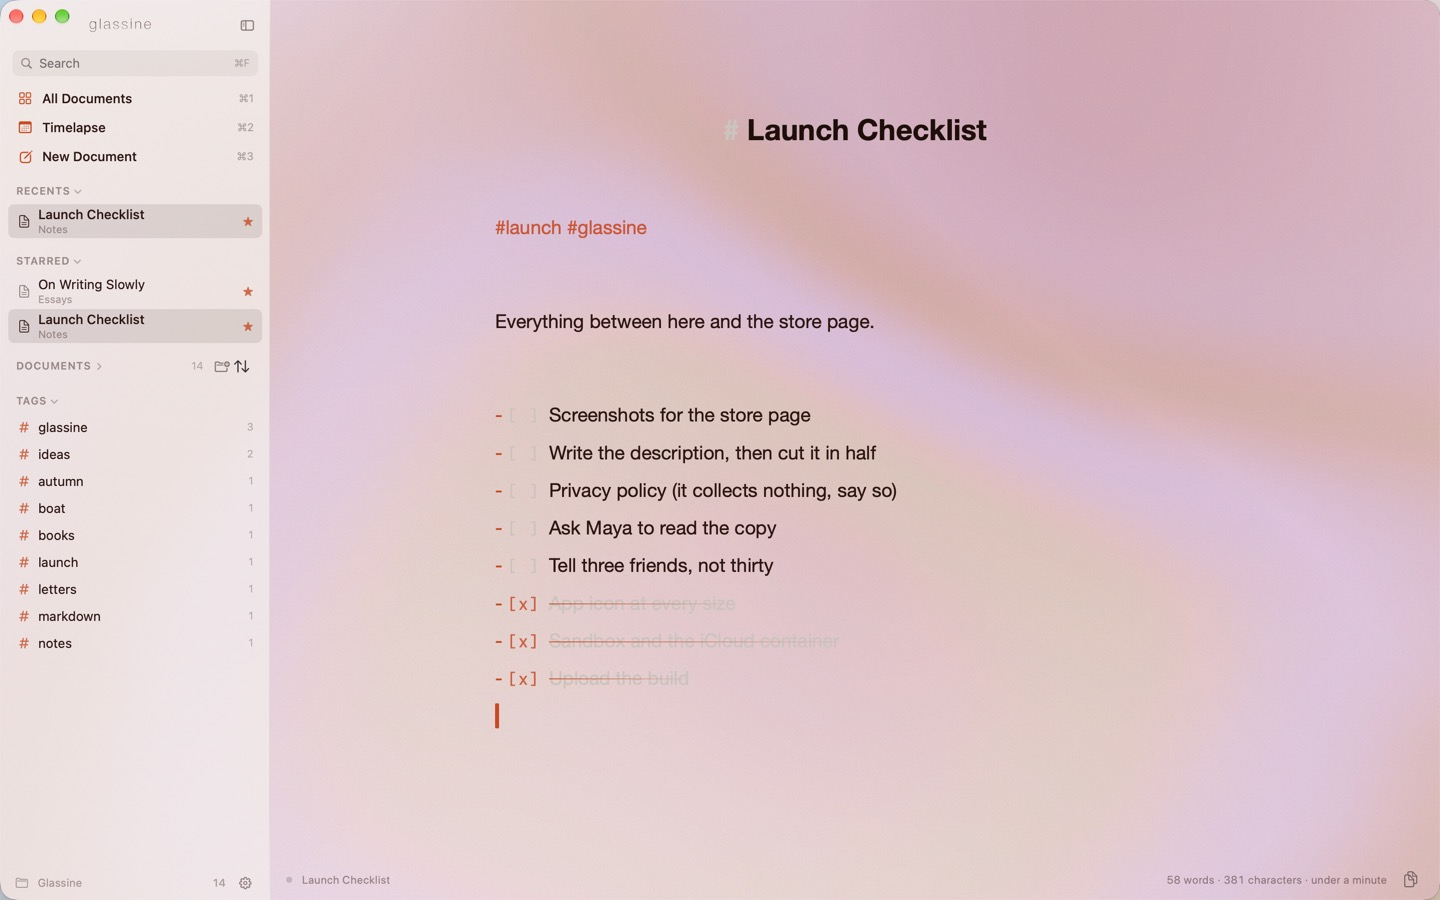
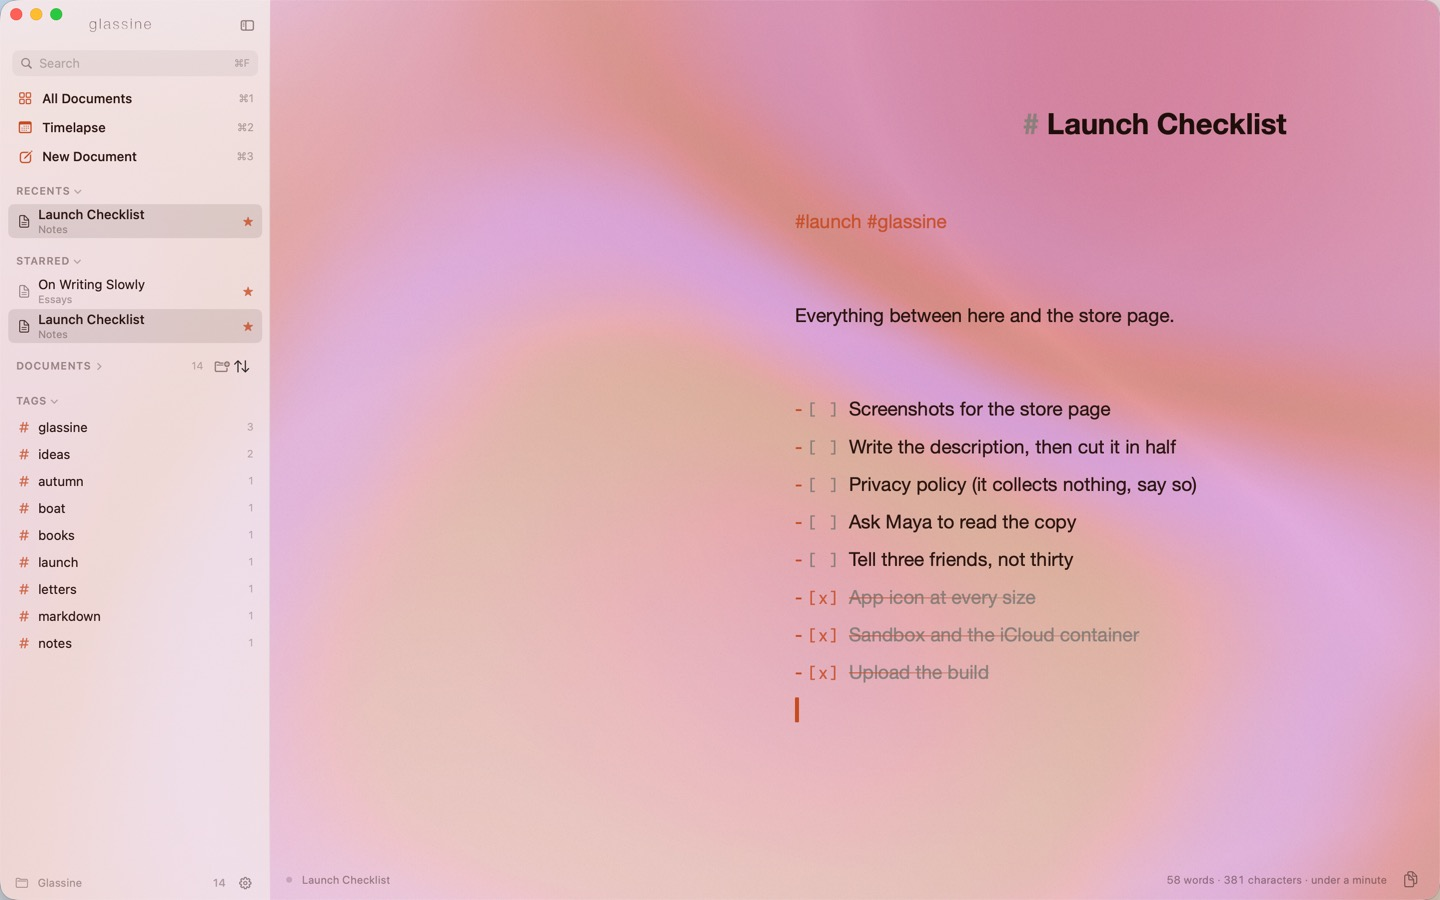
A light theme over a backdrop keeps its quiet grey
Paper's syntax colour — the marks, a task's box, a finished task's text —
is set for Paper's own near-white page and all but vanished against the
pale folds of a backdrop. Theme.overBackdrop leans it toward the text
colour; AppState.pageTheme applies it when a backdrop is showing, for the
editor (styleConfig) and Review. Dark themes need nothing. The light
picture for the README and manual retaken over Rose at the usual frost;
changelog and What's new for 0.2.12.

Claude-Session: https://claude.ai/code/session_01E5SPXFRmmR5PWeY6W3AsFB

diff --git a/Sources/Glassine/App/Theme.swift b/Sources/Glassine/App/Theme.swift
@@ -54,6 +54,18 @@ struct Theme: Codable, Identifiable, Hashable {
     var sidebarOpacity: Double = 0.3
 
     // Resolved colors
+    /// The theme as the page draws it over a backdrop. A light theme's quiet
+    /// grey — the syntax marks, a task's box, a finished task's text — is set
+    /// for the theme's own near-white page and fades out against pale folds
+    /// of colour; over a backdrop it leans toward the text colour instead.
+    /// Dark themes are set for dark grounds already and need nothing.
+    func overBackdrop() -> Theme {
+        guard !isDark else { return self }
+        var t = self
+        if let mixed = syntax.nsColor.blended(withFraction: 0.45, of: text.nsColor) { t.syntax = HexColor(mixed) }
+        return t
+    }
+
     var headingColor: NSColor { (heading ?? text).nsColor }
     var quoteColor: NSColor { quote?.nsColor ?? text.withAlpha(0.72) }
     var codeColor: NSColor { code?.nsColor ?? text.withAlpha(0.9) }

diff --git a/Sources/Glassine/App/AppState.swift b/Sources/Glassine/App/AppState.swift
@@ -113,7 +113,12 @@ final class AppState: ObservableObject {
     @Published var settingsQuery = ""
     /// Bumped to put the keyboard in that field (⌘F while Settings is up).
     @Published var settingsSearchFocus = 0
-    var styleConfig: StyleConfig { StyleConfig(theme: theme, settings: settings.data) }
+    /// The theme as the page draws it: over a backdrop, a light theme's quiet
+    /// colours lean toward the text, so a task's box stays on the page.
+    var pageTheme: Theme {
+        settings.data.backdrop == BackdropPreset.desktopID ? theme : theme.overBackdrop()
+    }
+    var styleConfig: StyleConfig { StyleConfig(theme: pageTheme, settings: settings.data) }
 
     private var cancellables = Set<AnyCancellable>()
     private var pollTimer: Timer?

diff --git a/Sources/Glassine/UI/ReviewView.swift b/Sources/Glassine/UI/ReviewView.swift
@@ -24,7 +24,7 @@ struct ReviewView: View {
     @ObservedObject var document: DocumentModel
     let initialScrollFraction: Double
 
-    private var theme: Theme { state.theme }
+    private var theme: Theme { state.pageTheme }
     private var style: ReviewStyle { state.settings.data.reviewStyle }
 
     var body: some View {

diff --git a/site/whats-new.md b/site/whats-new.md
@@ -6,6 +6,14 @@ every release. Newest version first. Three to five lines a version, each
 `- **Title.** One or two plain sentences.` — links as `[text](url)`, keys as
 `[[⌘K]]`. Older blocks stay as a record; only the top one is shown.
 
+## 0.2.12 — September 16, 2026
+
+- **A light theme over a backdrop keeps its quiet grey.** Paper's marks, a task's box and a finished task's text lean toward the text colour over the folds, instead of fading into them.
+- **Sync with GitHub.** The library kept in a private repository of yours, for a second Mac you'd rather not sign into iCloud on — and a history of every note, every version. No git, no daemon; connect with a token in Settings → Library. [How it works.](https://docs.glassine.ink/library/sync)
+- **Settings, remade.** A rail of sections, a search box that finds any setting by name, [[⌘Z]] to take a change back, and the Type and Caret sections showing what they do before you look behind the card.
+- **Caret tricks.** Left alone for a few seconds, the caret hops, bounces, flips, wiggles, stretches or leans — every shape performs. Off in a switch, and under Reduce Motion.
+- **On the Mac App Store**, as Glassine Writer. The direct download stays, and updates itself.
+
 ## 0.2.11 — September 13, 2026
 
 - **Sync with GitHub.** The library kept in a private repository of yours, for a second Mac you'd rather not sign into iCloud on — and a history of every note, every version. No git, no daemon; connect with a token in Settings → Library. [How it works.](https://docs.glassine.ink/library/sync)
